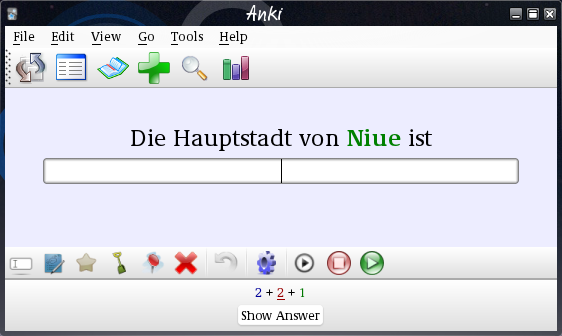
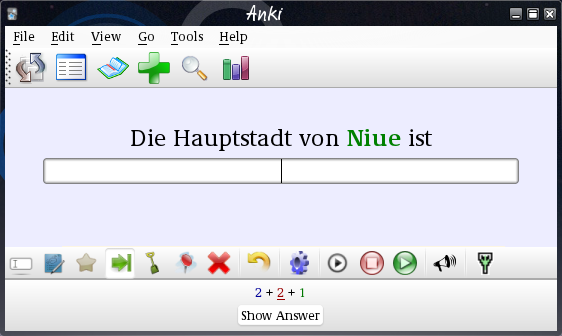
Pull over changes.

Changed region(s): [[0.1815, 0.7143, 0.8167, 0.8333], [0.847, 0.744, 0.8772, 0.8333]]

diff --git a/Colorful toolbar.html b/Colorful toolbar.html
@@ -58,6 +58,19 @@ replaced by an icon tool bar.</p>
 <p>This also adds a few more menu items and adds icons to the menus (not on Macs).
 The tool bars can be shown and hidden via the "View" menu, the “Decks
 Study Add Browse” functions can also be reached through the "Go" menu.</p>
+<h2>Last card</h2>
+<p>The add-on has one feature that is normally hidden: a last card
+button.</p>
+<p>When the button between the “mark” and “bury” buttons has been clicked
+and the arrow is green instead of gray, clicking on one of the answer
+buttons (“Again”, “Good” &amp;c.), takes you to the deck options screen
+instead of showing another card.</p>
+<p>To show this button, edit the add-on
+<a href="https://github.com/ospalh/anki-addons/blob/master/Colorful%20toolbar.py">source</a>
+by activating the “Tools/Add-ons/Colorful toolbars/Edit...” menu item.</p>
+<p>Remove the <code>#</code> and the space at the beginning of the  <code>#
+show_toggle_last = True</code>-line  and add a <code>#</code> (and a space) to the
+<code>show_toggle_last = False</code> line. Click “Save” and restart Anki.</p>
 <h2>Variants</h2>
 <figure style="width:562px;" class="clear">
 
